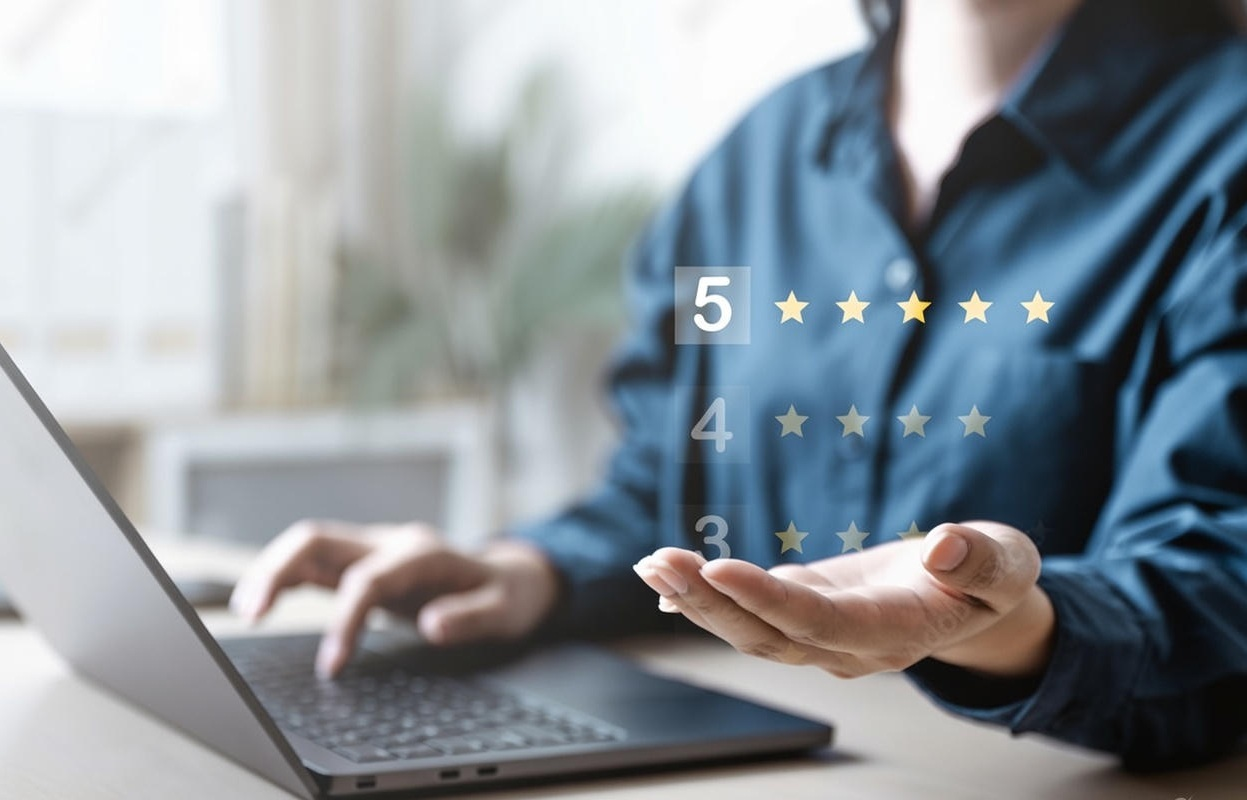
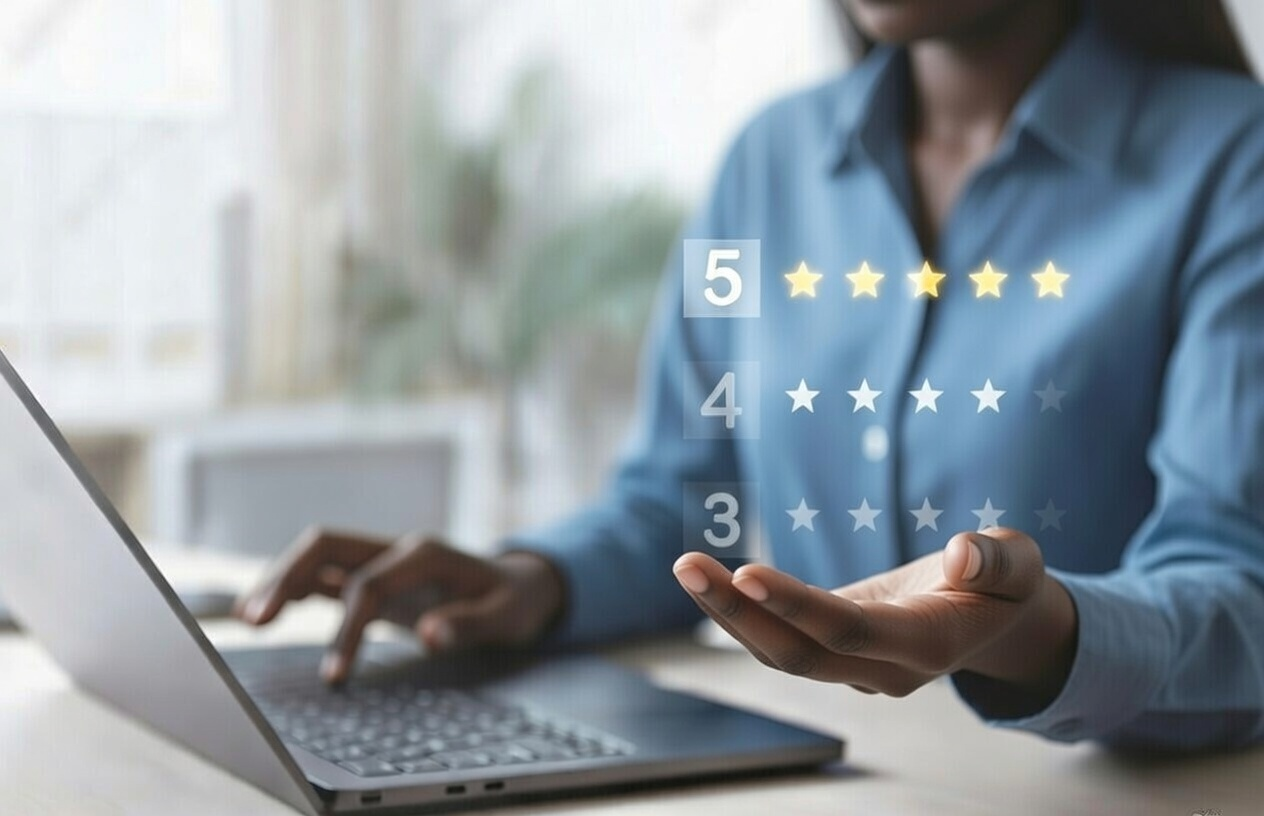
added amharic equivelent for age

diff --git a/backend/accounts/views.py b/backend/accounts/views.py
@@ -392,7 +392,8 @@ class DashboardView(APIView):
             Question.objects.filter(survey=survey)
             .filter(
                 Q(text__icontains="age") |
-                Q(text__icontains="እድሜ")
+                Q(text__icontains="እድሜ") |
+                Q(text__icontains="ዕድሜ")
             )
             .order_by("id")
             .first()
